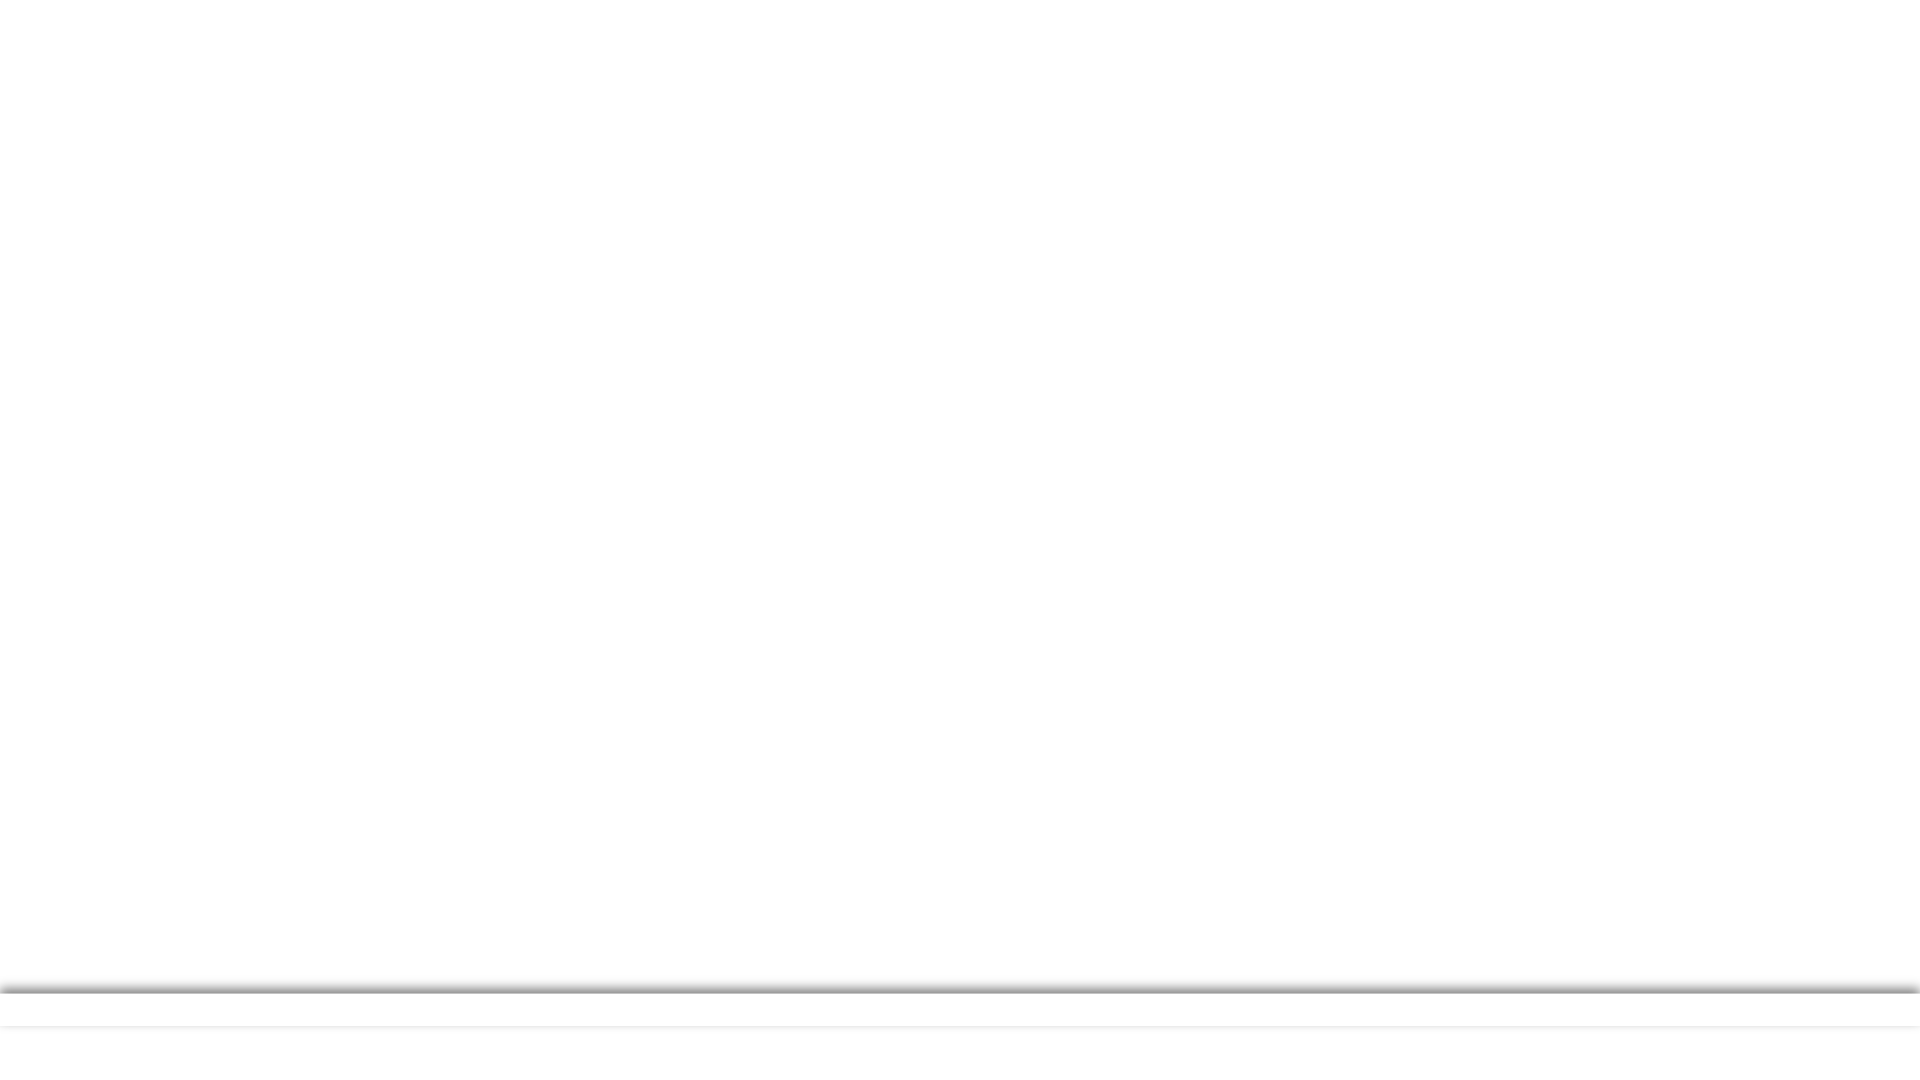
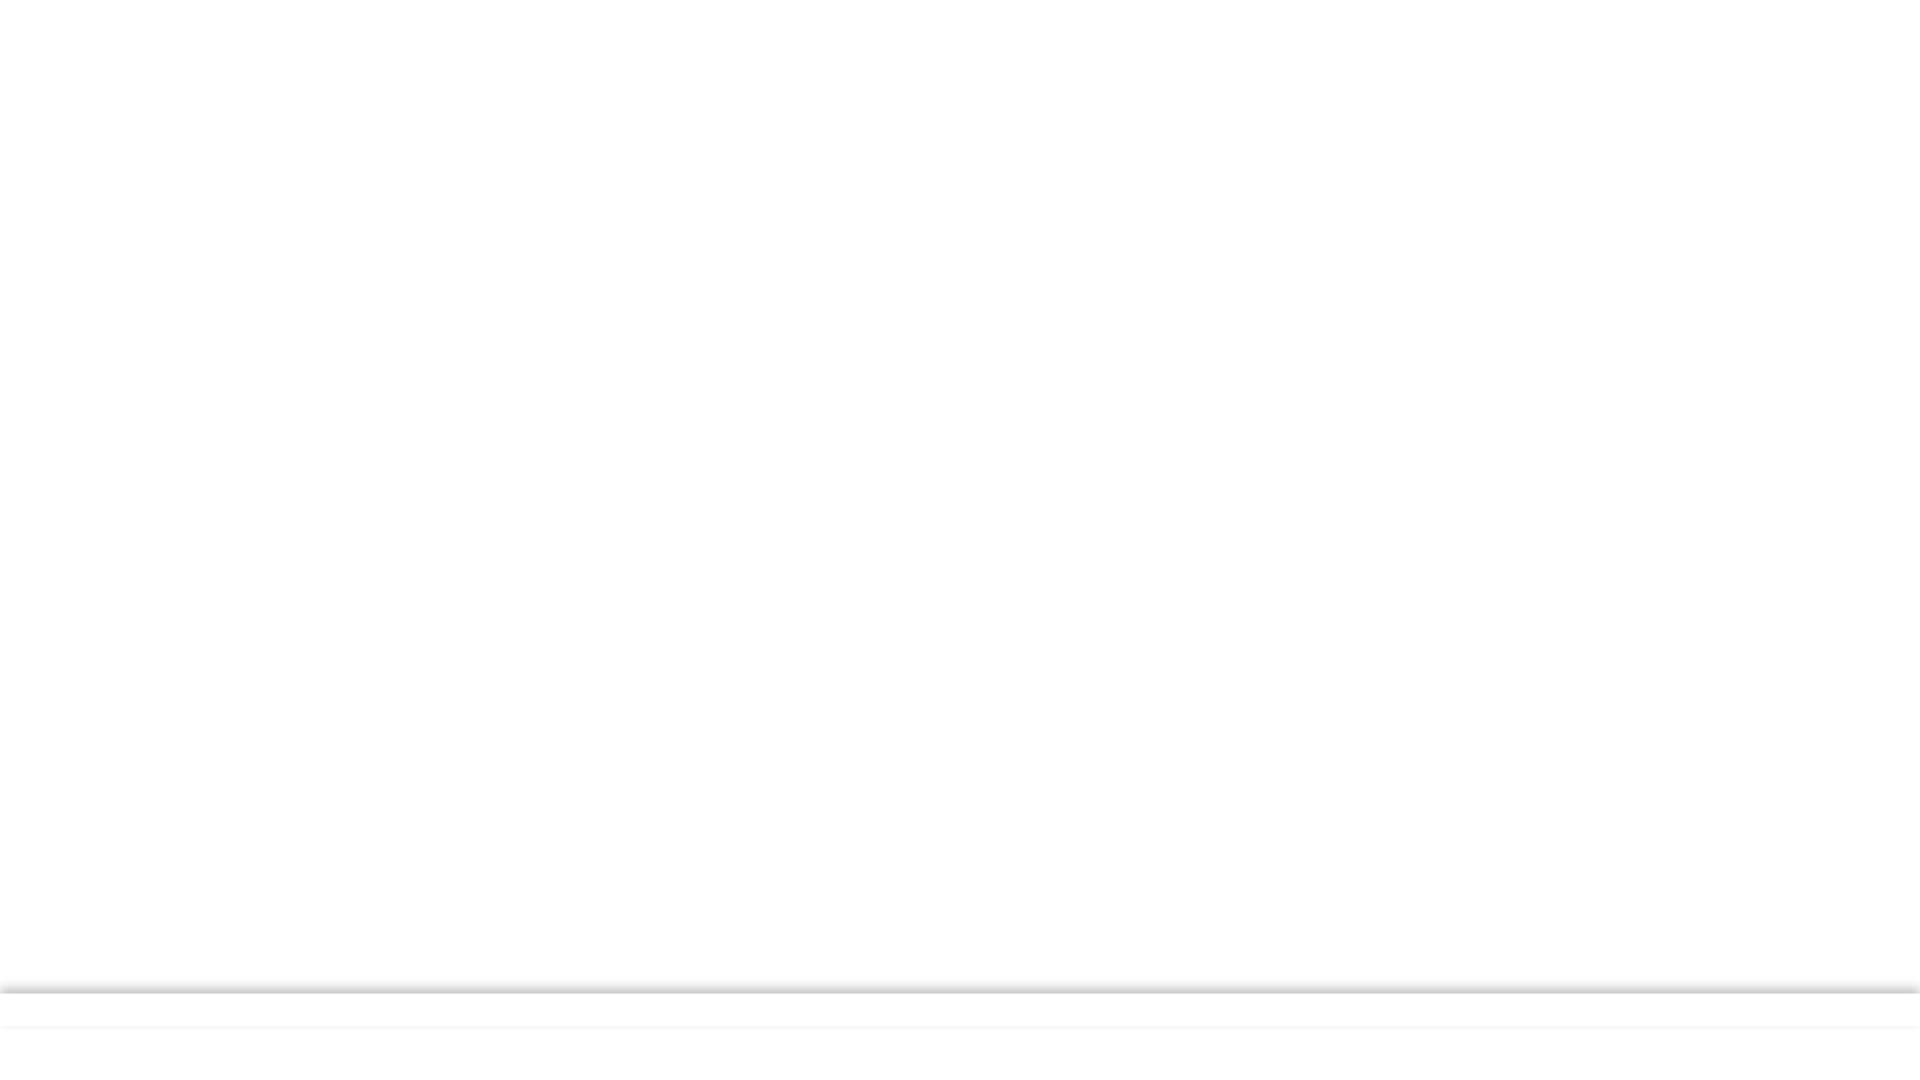
Graph: Move role into blue bar LT: Additional scenes Twitter: Create scene to wrap it Ticker: Reduce drop shadow strength

Changed region(s): [[0.0, 0.9167, 1.0, 0.9472]]

diff --git a/src/sass/graph/app.scss b/src/sass/graph/app.scss
@@ -116,16 +116,17 @@ body {
 
 #graphRoleTitle {
   position: absolute;
-  bottom: 178px;
+  bottom: 98px;
+  left: 112px;
   // background: green;
   width: 100vw;
-  text-align: center;
-  height: 59px;
-  line-height: 59px;
+  text-align: left;
+  // height: 59px;
+  // line-height: 59px;
   color: white;
 
   font-family: "HelveticaNeue";
-  font-size: 40px;
+  font-size: 30px;
 }
 
 .main {

diff --git a/src/js/graph/graph.js b/src/js/graph/graph.js
@@ -194,7 +194,7 @@ const Graphs = {
   },
 
   setTitle: function(title){
-    document.querySelector('#graphRoleTitle').innerHTML = title.toUpperCase();
+    document.querySelector('#graphRoleTitle').innerHTML = title;
   },
 
   showHideGraph: function(vis, cb){
